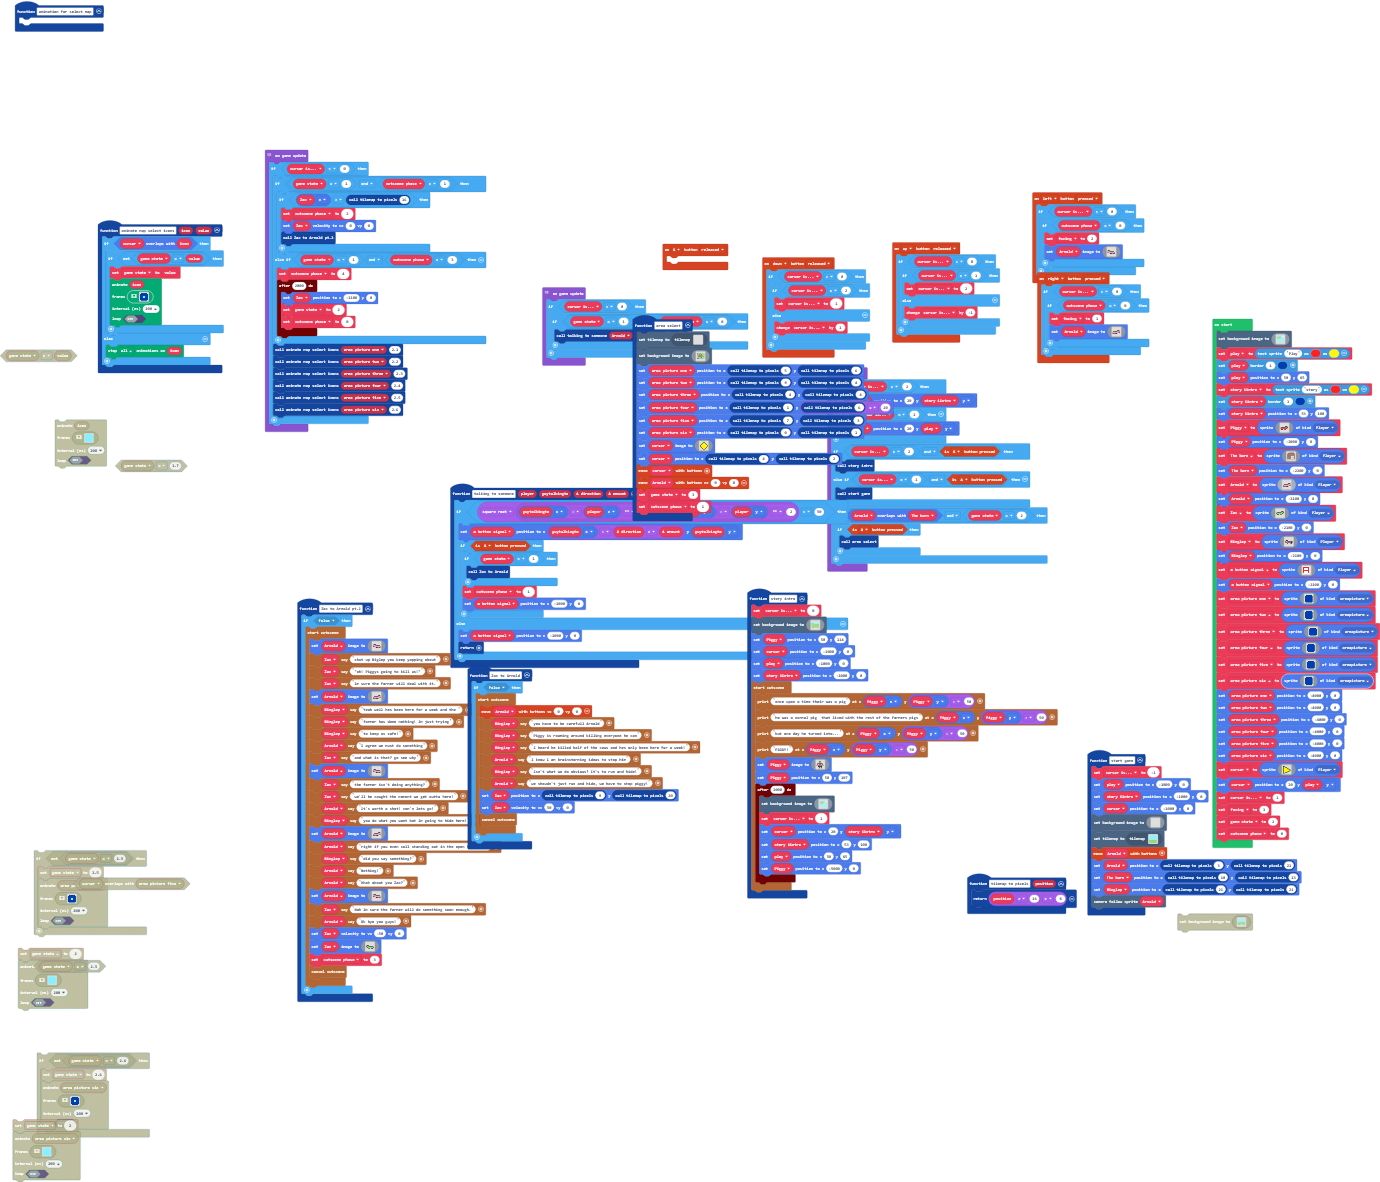
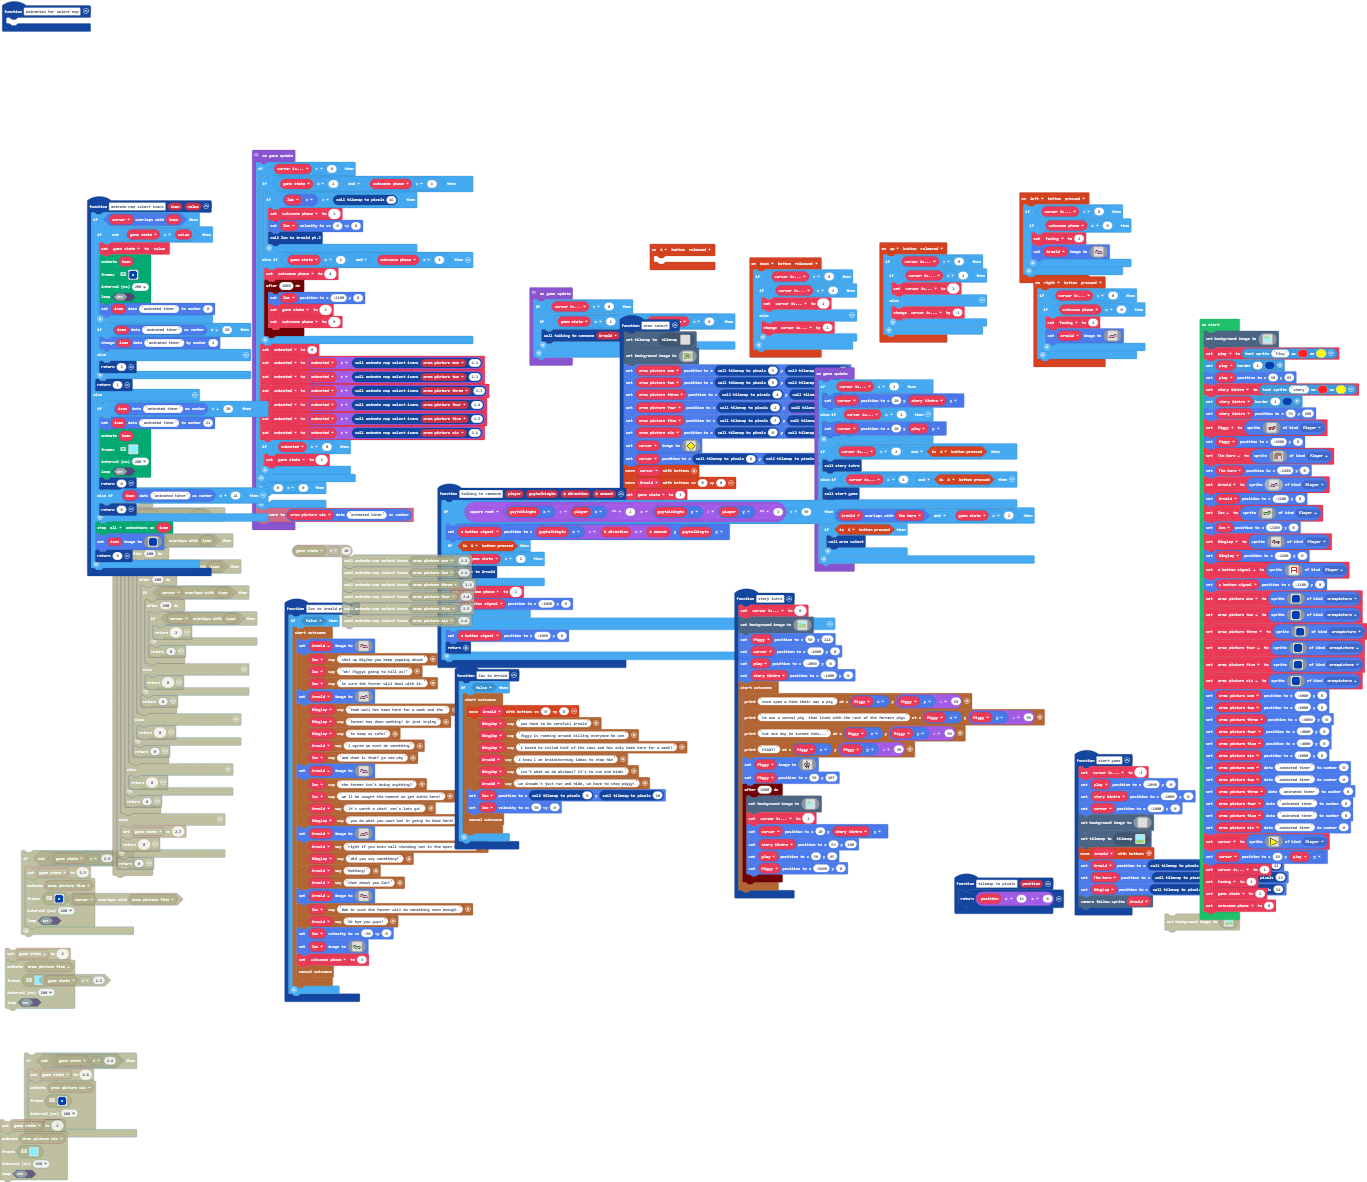
WE FINALLY FINISHED THE ANIMATING MAP SELECT FRAMEWORK THINGY

diff --git a/main.ts b/main.ts
@@ -868,11 +868,96 @@ function animate_map_select_icons (icon: Sprite, value: number) {
             200,
             false
             )
+            sprites.setDataNumber(icon, "animated timer", 0)
         }
+        if (sprites.readDataNumber(icon, "animated timer") != 20) {
+            sprites.changeDataNumberBy(icon, "animated timer", 1)
+        } else {
+            return 2
+        }
+        return 1
     } else {
+        if (sprites.readDataNumber(icon, "animated timer") == 20) {
+            sprites.setDataNumber(icon, "animated timer", 21)
+            animation.runImageAnimation(
+            icon,
+            [img`
+                . 9 9 9 9 9 9 . 
+                9 9 9 9 9 9 9 9 
+                9 9 9 9 9 9 9 9 
+                9 9 9 9 9 9 9 9 
+                9 9 9 9 9 9 9 9 
+                9 9 9 9 9 9 9 9 
+                9 9 9 9 9 9 9 9 
+                . 9 9 9 9 9 9 . 
+                `,img`
+                . 8 8 8 8 8 8 . 
+                8 9 9 9 9 9 9 8 
+                8 9 9 9 9 9 9 8 
+                8 9 9 9 9 9 9 8 
+                8 9 9 9 9 9 9 8 
+                8 9 9 9 9 9 9 8 
+                8 9 9 9 9 9 9 8 
+                . 8 8 8 8 8 8 . 
+                `,img`
+                . 8 8 8 8 8 8 . 
+                8 8 8 9 9 8 8 8 
+                8 8 9 9 9 9 8 8 
+                8 9 9 9 9 9 9 8 
+                8 9 9 9 9 9 9 8 
+                8 8 9 9 9 9 8 8 
+                8 8 8 9 9 8 8 8 
+                . 8 8 8 8 8 8 . 
+                `,img`
+                . 8 8 8 8 8 8 . 
+                8 8 8 8 8 8 8 8 
+                8 8 8 9 9 8 8 8 
+                8 8 9 9 9 9 8 8 
+                8 8 9 9 9 9 8 8 
+                8 8 8 9 9 8 8 8 
+                8 8 8 8 8 8 8 8 
+                . 8 8 8 8 8 8 . 
+                `,img`
+                . 8 8 8 8 8 8 . 
+                8 8 8 8 8 8 8 8 
+                8 8 8 8 8 8 8 8 
+                8 8 8 9 9 8 8 8 
+                8 8 8 9 9 8 8 8 
+                8 8 8 8 8 8 8 8 
+                8 8 8 8 8 8 8 8 
+                . 8 8 8 8 8 8 . 
+                `,img`
+                . 8 8 8 8 8 8 . 
+                8 8 8 8 8 8 8 8 
+                8 8 8 8 8 8 8 8 
+                8 8 8 8 8 8 8 8 
+                8 8 8 8 8 8 8 8 
+                8 8 8 8 8 8 8 8 
+                8 8 8 8 8 8 8 8 
+                . 8 8 8 8 8 8 . 
+                `],
+            200,
+            false
+            )
+            return 0
+        } else if (sprites.readDataNumber(icon, "animated timer") == 21) {
+            return 0
+        }
         animation.stopAnimation(animation.AnimationTypes.All, icon)
+        icon.setImage(img`
+            . 8 8 8 8 8 8 . 
+            8 8 8 8 8 8 8 8 
+            8 8 8 8 8 8 8 8 
+            8 8 8 8 8 8 8 8 
+            8 8 8 8 8 8 8 8 
+            8 8 8 8 8 8 8 8 
+            8 8 8 8 8 8 8 8 
+            . 8 8 8 8 8 8 . 
+            `)
+        return 0
     }
 }
+let animated = 0
 let cutscene_phase = 0
 let game_state = 0
 let facing = 0
@@ -1292,6 +1377,12 @@ area_picture_three.setPosition(-4000, 0)
 area_picture_four.setPosition(-4000, 0)
 area_picture_five.setPosition(-4000, 0)
 area_picture_six.setPosition(-4000, 0)
+sprites.setDataNumber(area_picture_one, "animated timer", 0)
+sprites.setDataNumber(area_picture_two, "animated timer", 0)
+sprites.setDataNumber(area_picture_three, "animated timer", 0)
+sprites.setDataNumber(area_picture_four, "animated timer", 0)
+sprites.setDataNumber(area_picture_five, "animated timer", 0)
+sprites.setDataNumber(area_picture_six, "animated timer", 0)
 cursor = sprites.create(img`
     f f . . . . . . . . . . . . . . 
     f 5 f f . . . . . . . . . . . . 
@@ -1332,13 +1423,21 @@ game.onUpdate(function () {
                 cutscene_phase = 0
             })
         }
-        animate_map_select_icons(area_picture_one, 2.1)
-        animate_map_select_icons(area_picture_two, 2.2)
-        animate_map_select_icons(area_picture_three, 2.3)
-        animate_map_select_icons(area_picture_four, 2.4)
-        animate_map_select_icons(area_picture_five, 2.5)
-        animate_map_select_icons(area_picture_six, 2.6)
+        animated = 0
+        animated = animated + animate_map_select_icons(area_picture_one, 2.1)
+        animated = animated + animate_map_select_icons(area_picture_two, 2.2)
+        animated = animated + animate_map_select_icons(area_picture_three, 2.3)
+        animated = animated + animate_map_select_icons(area_picture_four, 2.4)
+        animated = animated + animate_map_select_icons(area_picture_five, 2.5)
+        animated = animated + animate_map_select_icons(area_picture_six, 2.6)
+        if (animated == 0) {
+            game_state = 2
+        }
     }
+    if (0 == 0) {
+    	
+    }
+    info.setScore(sprites.readDataNumber(area_picture_six, "animated timer"))
 })
 // this is where I ask what cutscene has started
 game.onUpdate(function () {
